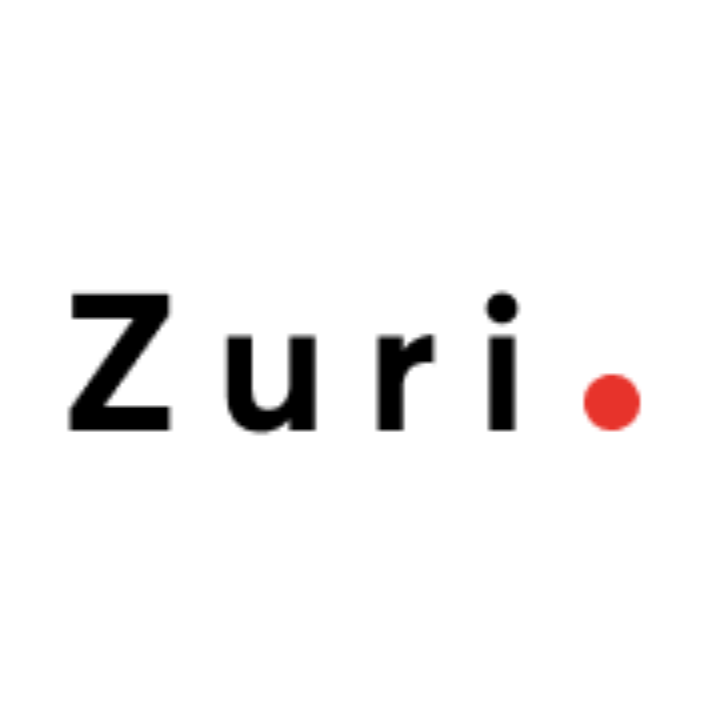
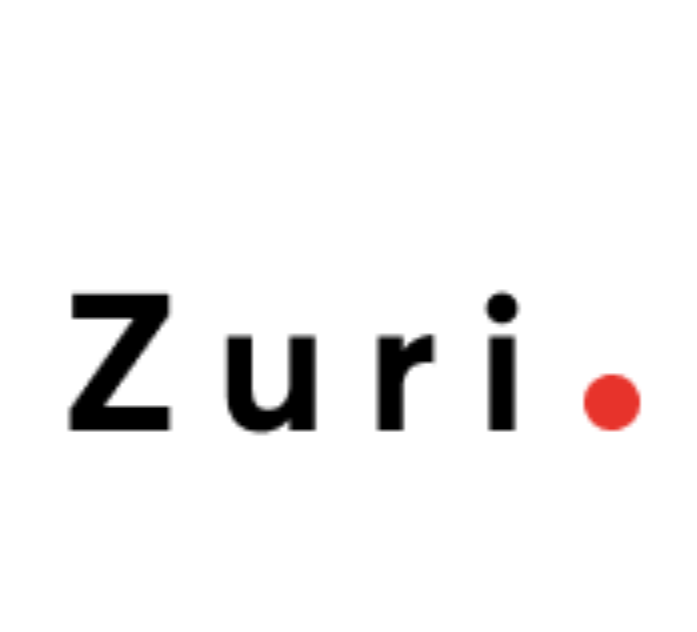
this is my resume and a program that prints name

diff --git a/style.css b/style.css
@@ -9,7 +9,7 @@ body{
 }
 .logo{
     height: 100px;
-    background: rgb(58, 26, 146);
+    background: rgb(62,62, 185);
     border: solid 2px #000000;
 }
 .sidebar{
@@ -82,7 +82,7 @@ img{
 @media screen and (max-width: 992px){
     .sidebar{
         width: 40%;
-        height: 100%;
+        height: 183%;
     }
     .main{
         margin-left: 297px;
@@ -98,16 +98,18 @@ img{
     } */
     @media screen and (max-width: 600px) {
         .sidebar{
-            width: 45%;
+            width: 47%;
             margin-top: 10vh;
             text-align: center;
+            height: 165%;
         }
         .main{
-            width: 50%;
+            width: 43%;
             padding-top: 40px;
             margin-left: 298px;
             text-align: justify;
             font-size: 10;
+            /* padding: 1px; */
         }
         img{
             width: 80%;
@@ -122,19 +124,19 @@ img{
             flex-direction: column;
         }
         .main li{
-            font-size: 14px;
+            font-size: 10px;
         }
         .main h3{
-            font-size: 16;
+            font-size: 12px;
         }
         .sidebar h1{
-            font-size: 16;
+            font-size: 14px;
         }
         .sidebar h3{
-            font-size: 14;
+            font-size: 12px;
         }
         .sidebar p{
-            font-size: 12;
+            font-size: 10px;
         }
         /* media query ends */
     }}

diff --git a/index.html b/index.html
@@ -11,7 +11,7 @@
     
     <div class="logo">
         <a href="https://ingressive.org/"><img src="./Screenshot (250).png"  alt="HNGi8/i4g logo"></a>
-        <a href="https://internship.zuri.team/"><img src="./Screenshot_20210818-013554.png" width="64" height="64" alt="Zuri logo"></a>
+        <a href="https://internship.zuri.team/"><img src="./Screenshot_20210818-013554.png" width="139" height="56" alt="Zuri logo"></a>
     </div>
     <div class="row">
       <div class="sidebar">
